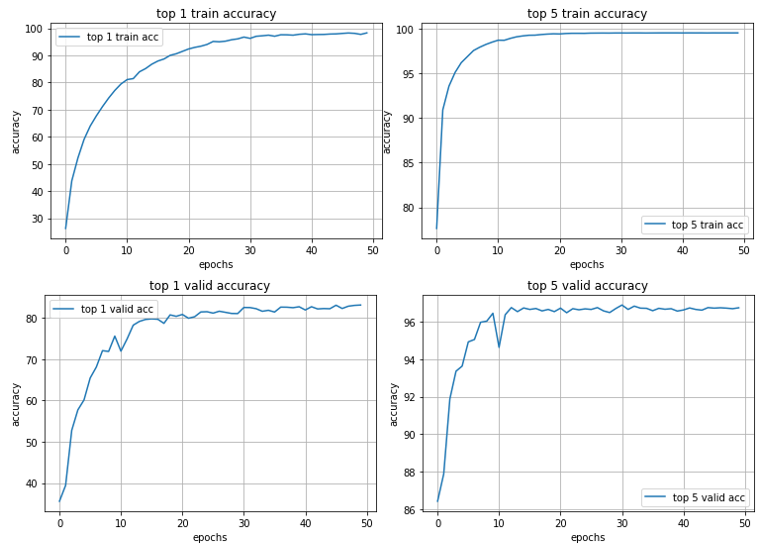
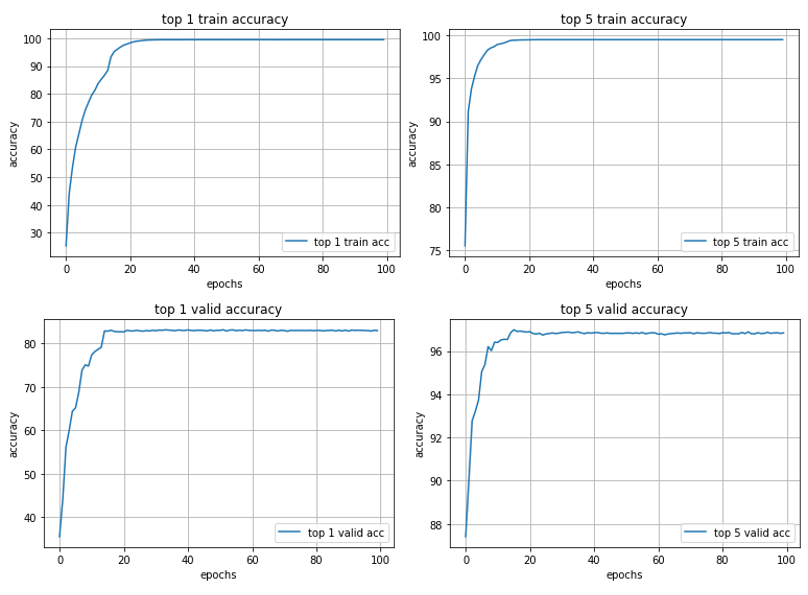
update readme

diff --git a/README.md b/README.md
@@ -19,7 +19,7 @@
     * ResNet의 경우, Fig 1에서와 같이 input channel과 output channel 갯수간의 불일치를 처리하기 위해 skip connection에 stride를 사용하기 때문에 identity mapping을 적용할 수 없음
     * FishNet의 경우, 다른 depth의 feature를 최종 output에 concat하여 연결하여 위의 문제를 해결함
     * 즉, FishNet의 Residual block은 ResNet의 단점을 보완하여 설계됨
-    
+
 ## FrameWork
 * FishNet은 크게 아래 이미지와 같이 3가지 구조로 나뉨
     <img src="./fig/model_overview.PNG">
@@ -98,8 +98,8 @@ FishNet
     |       | top-1 acc | top-5 acc |
     |-------|-----------|-----------|
     | train | 98.3131%  | 99.5223%  |
-    | valid | 83.0967%  | 96.7383%  |
-    | test  | 85.0600%  | 99.1800%  |
+    | valid | 83.1934%  | 96.8359%  |
+    | test  | 84.6000%  | 99.2700%  |
 
 
 ## More Idea
